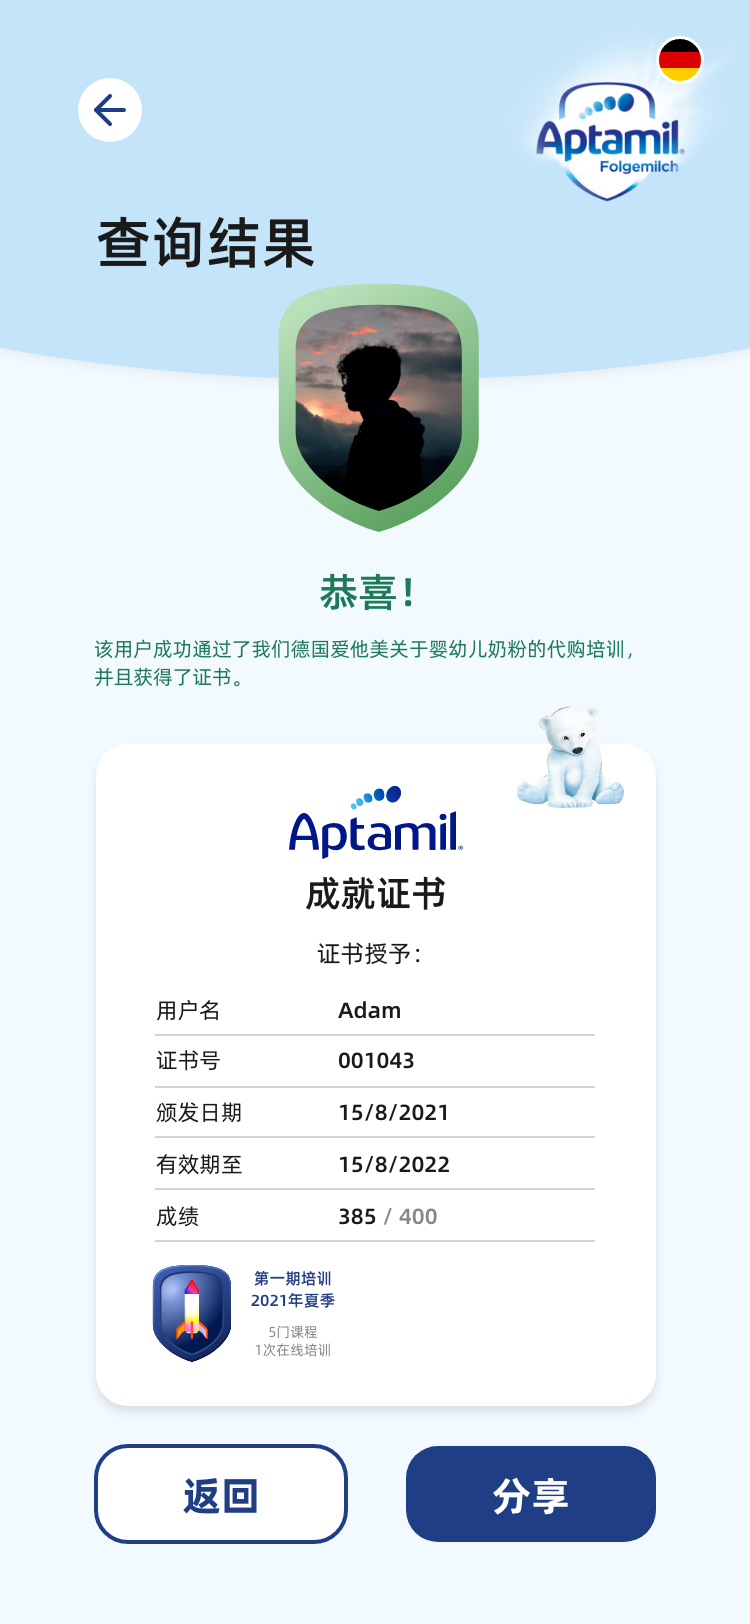
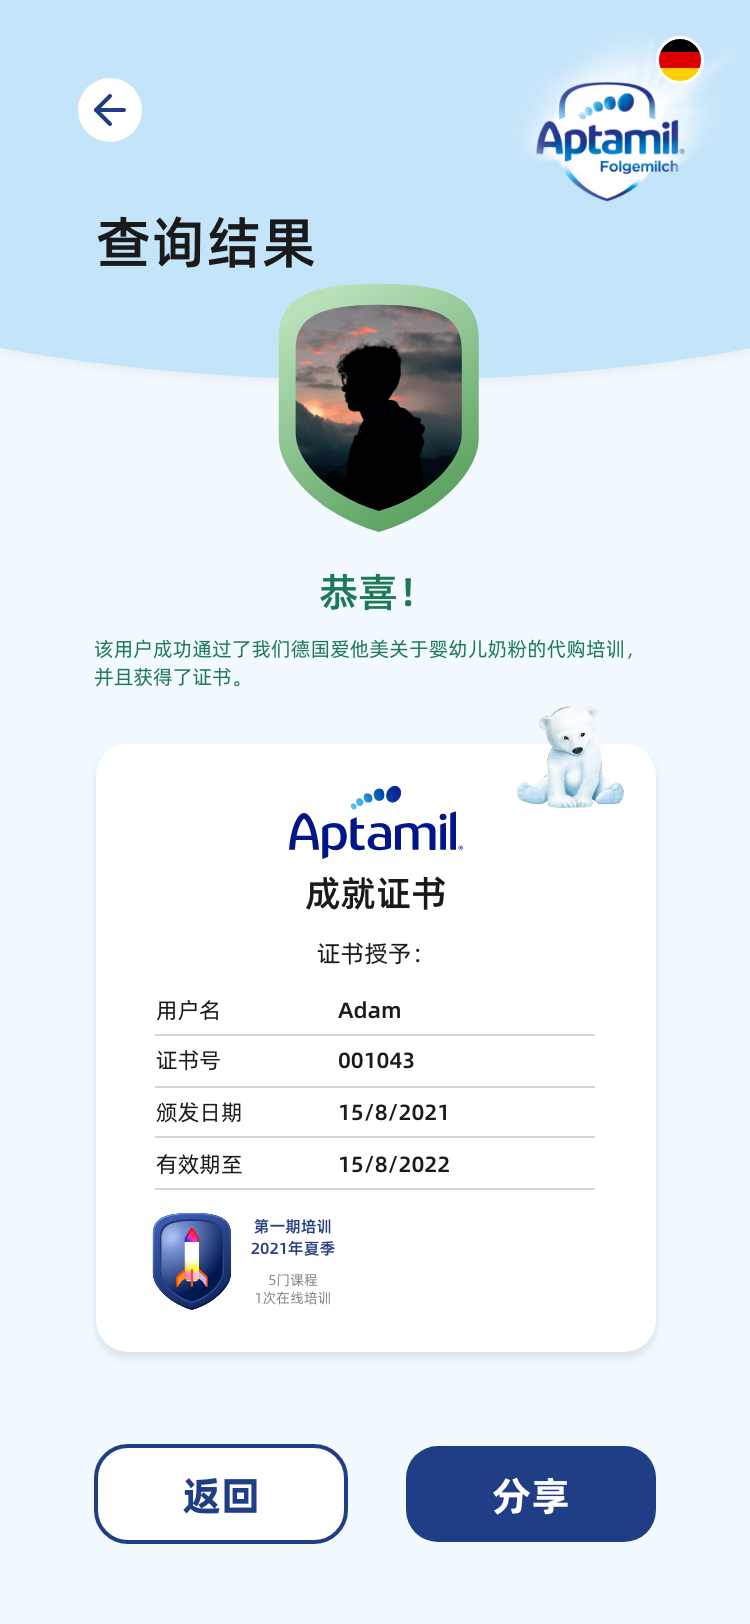
hide score info

Changed region(s): [[0.1533, 0.7389, 0.828, 0.8621]]

diff --git a/components/Result/ResultPanel.js b/components/Result/ResultPanel.js
@@ -63,7 +63,6 @@ const ResultPanel = () => {
     issueDate.getFullYear() + 1
   );
   const expired_at = new Date(expiredTS).toISOString().substr(0, 10);
-  const score = player.score;
   const shop_link =
     "https://h5.cdhexingkeji.com/pages/index/index?shop_id=00fd6cfe-fe8f-4650-a4d8-4ea4094e076f";
 
@@ -114,12 +113,6 @@ const ResultPanel = () => {
           <div className={classes.detail}>
             <div className={classes.field}>有效期至</div>
             <span>{expired_at}</span>
-          </div>
-          <div className={classes.detail}>
-            <div className={classes.field}>成绩</div>
-            <span>
-              {score} <span className={classes.fullScore}>/ 500</span>
-            </span>
           </div>
 
           <div className={classes.badges}>
